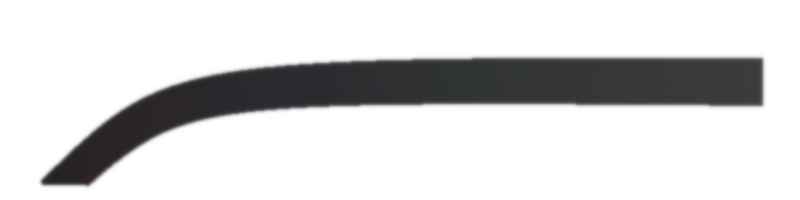
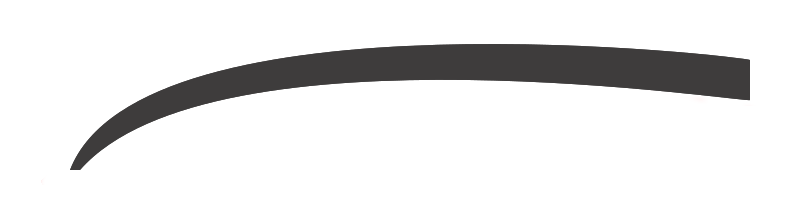
Fix Graphics for Style 2

diff --git a/Gauges/RPMBARStyle2.qml b/Gauges/RPMBARStyle2.qml
@@ -76,7 +76,7 @@ Rectangle {
       Item{
             id: displayWindow1
             height: parent.height
-            width: (735*(Dashboard.rpm)/Dashboard.maxRPM)+47 //+61 is the pixel where the RPM bar starts and from there is 651 pixels wide
+            width: (678*(Dashboard.rpm)/Dashboard.maxRPM)+70 //+70 is the pixel where the RPM bar starts and from there is 678 pixels wide
 
             clip: true
 

diff --git a/Gauges/RPMbar.qml b/Gauges/RPMbar.qml
@@ -24,7 +24,7 @@ Rectangle {
       text: (Dashboard.rpm)
       font.pixelSize: 100
       y: 130
-      x: 240
+      x: 217
   font.italic: true
       font.bold: true
       font.family: "Eurostile"
